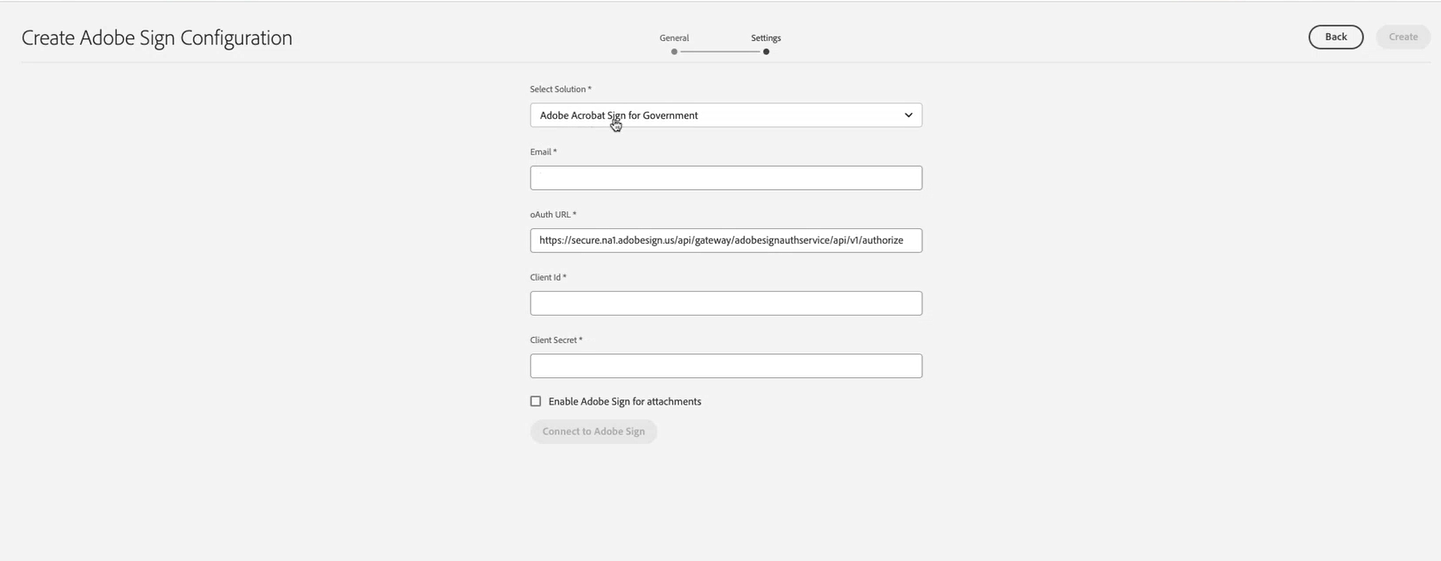
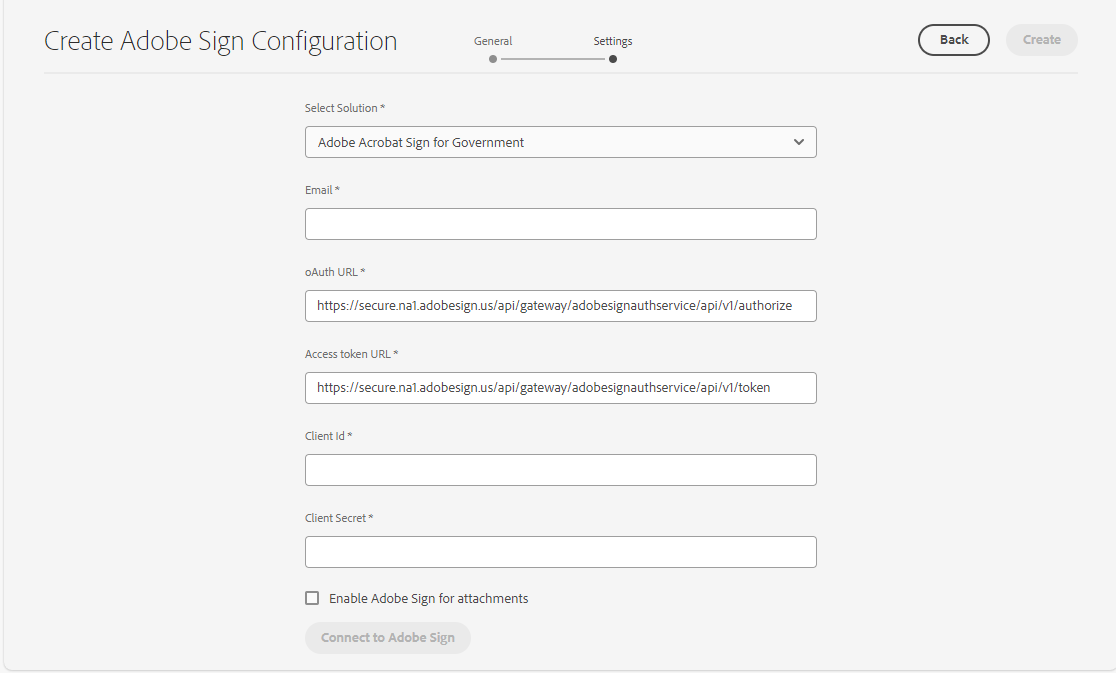
updated adobe-sign configuration

diff --git a/help/forms/using/adobe-sign-integration-adaptive-forms.md b/help/forms/using/adobe-sign-integration-adaptive-forms.md
@@ -55,7 +55,7 @@ After prerequisites are in place, perform the following steps to configure [!DNL
 
    >[!NOTE]
    >
-   >You can either execute steps 1-4 to create a configuration container and create an [!DNL Adobe Sign] configuration in the container or use the existing `global` folder in **Tools** ![hammer](assets/hammer.png) &gt; **[!UICONTROL Cloud Services]** &gt; **[!UICONTROL Adobe Sign]**. If you create the configuration in the new configuration container, ensure to specify the container name in the **[!UICONTROL Configuration Container]** field when you create an adaptive form.
+   >You can either execute steps 1-4 to create a configuration container and create an [!DNL Adobe Sign] configuration in the container or use the existing `global` folder in **Tools** ![hammer](assets/hammer.png) &gt; **[!UICONTROL Cloud Services]** &gt; **[!UICONTROL Adobe Sign]**. If you create the configuration in the new configuration container, ensure to specify the container name in the **[!UICONTROL Configuration Container]** field when you create an Adaptive Form.
    
    >[!NOTE]
    >
@@ -63,26 +63,35 @@ After prerequisites are in place, perform the following steps to configure [!DNL
 
 1. On the configuration page, tap **[!UICONTROL Create]** to create [!DNL Adobe Sign] configuration in AEM [!DNL Forms].
 1. In the **[!UICONTROL General]** tab of the **[!UICONTROL Create Adobe Sign Configuration]** page, specify a **[!UICONTROL Name]** for the configuration and tap **[!UICONTROL Next]**. You can optionally specify a title and browse to select a thumbnail for the configuration.
+1. Now you can **[!UICONTROL Select solution]** to select [!DNL Adobe Acrobat Sign].
+
+   ![Adobe Acrobat Sign Solutions](/help/forms/using/assets/adobe-sign-solution.png)
 
 1. Copy the URL in your current browser window to a notepad. It is required to configure [!DNL Adobe Sign] application with AEM[!DNL Forms].
 
-1. In the **[!UICONTROL Settings]** tab, the **[!UICONTROL OAuth URL]** field contains the default URL. The format of the URL is:
+1.  In the **[!UICONTROL Settings]** tab,
+      * the **[!UICONTROL OAuth URL]** field contains the default URL which includes the Adobe Sign database shard. The format of the URL is:
 
-      `https://<shard>/public/oAuth/v2`
+         `https://<shard>/public/oauth/v2`
    
-      For example: 
-      `https://secure.na1.echosign.com/public/oauth/v2`
+         For example: 
+         `https://secure.na1.echosign.com/public/oauth/v2`
+
+      * the **[!UICONTROL Access token URL]** field contains the default URL which includes the Adobe Sign database shard. The format of the URL is:
+
+         `https://<shard>/oauth/v2/token`
+   
+         For example: 
+         `https://api.na1.echosign.com/oauth/v2/token`
    
       where:
    
-      **na1** refers to the default database shard. You can modify the value for the database shard. Ensure that  the [!DNL  Adobe Sign] Cloud Configurations point to the [correct Shard](https://helpx.adobe.com/sign/using/identify-account-shard.html).
-   
-      If you create another [!DNL Adobe Sign] configuration for an Adobe Experience Manager feature or component, ensure that all the [!DNL Adobe Sign] Cloud Configurations point to the same shard.
+      **na1** refers to the default database shard. You can modify the value for the database shard. Ensure that  the [!DNL  Adobe Acrobat Sign] Cloud Configurations point to the [correct Shard](https://helpx.adobe.com/sign/using/identify-account-shard.html).
    
       >[!NOTE]
       >
-      >Keep the **Create Adobe Sign Configuration** page open. Do not close it. You can retrieve **Client Id** and **Client Secret** after configuring OAuth settings for the [!DNL Adobe Sign] application as described in upcoming steps.
-
+      >* Keep the **Create Adobe Acrobat Sign Configuration** page open. Do not close it. You can retrieve **Client Id** and **Client Secret** after configuring OAuth settings for the [!DNL Adobe Acrobat Sign] application as described in upcoming steps.
+      > * After logging in your Adobe Sign account,navigate to **[!UICONTROL Acrobat Sign API]** > **[!UICONTROL API Information]** > **[!UICONTROL REST API Methods Documentation]** > **[!UICONTROL OAuth Access Token]** to access information related to Adobe Sign OAuth URL and Access Token URL.
 
 1. Configure OAuth settings for the [!DNL Adobe Sign] application:
 
@@ -102,6 +111,7 @@ After prerequisites are in place, perform the following steps to configure [!DNL
 
    ![OAuth Config](assets/oauthconfig_new.png)
 
+<!--
 1. Go back to the **[!UICONTROL Create Adobe Sign Configuration]** page. In the **[!UICONTROL Settings]** tab, the **[!UICONTROL OAuth URL]** field mentions the  default URL. The format of the URL is:
 
    `https://<shard>/public/oAuth/v2`
@@ -117,13 +127,15 @@ After prerequisites are in place, perform the following steps to configure [!DNL
 
    >[!NOTE]
    >
-   >Ensure that your author and publish instance configurations point to the same shard. If you create multiple Adobe Sign configurations for an organization, ensure all the configurations utilize the same shard.
+   >Ensure that your author and publish instance configurations point to the same shard. If you create multiple Adobe Sign configurations for an organization, ensure all the configurations utilize the same shard. -->
 
 1. Go back to the **[!UICONTROL Create Adobe Sign Configuration]** page. In the **[!UICONTROL Settings]** tab, specify the **Client ID** (also referred to as Application ID) and **Client Secret**. Use the [Client ID and Client Secret of Adobe Sign application](https://opensource.adobe.com/acrobat-sign/developer_guide/helloworld.html#get-the-app-id-and-secret) created for AEM Forms.
 
 1. Select the **[!UICONTROL Enable Adobe Sign for attachments also]** option to append files attached to an adaptive form to the corresponding [!DNL Adobe Sign] document sent for signing.
 
 1. Tap **[!UICONTROL Connect to Adobe Sign]**. When prompted for credentials, provide username and password of the account used while creating [!DNL Adobe Sign] application.
+
+   ![Adobe Acrobat Sign Cloud Configuration Success](assets/adobe-sign-cloud-configuration-success.png)
 
 1. Tap **[!UICONTROL Create]** to create the [!DNL Adobe Sign] configuration.
 
@@ -134,6 +146,10 @@ After prerequisites are in place, perform the following steps to configure [!DNL
 1. Use [replication](https://experienceleague.adobe.com/docs/experience-manager-65/deploying/configuring/replication.html) to create identical configuration on corresponding publish instances. 
 
 Now, [!DNL Adobe Sign] is integrated with AEM [!DNL Forms] and ready for use in adaptive forms. To [use Adobe Sign service in an adaptive form](../../forms/using/working-with-adobe-sign.md#configure-adobe-sign-for-an-adaptive-form), specify the configuration container created above in adaptive form properties.
+
+>[!NOTE]
+>
+> To configure the Adobe Sign sandbox, you can follow the same configuration steps as explained in [Adobe Sign](#adobe-sign).
 
 ## Connect AEM Forms with Adobe Acrobat Sign Solutions for Government {#adobe-acrobat-sign-for-government}
 
@@ -201,9 +217,31 @@ The representative generates and shares credentials with you. In the next sectio
    
       ![Adobe Acrobat Sign Solutions for Government](/help/forms/using/assets/adobe-sign-for-govt.png)
 
-1. In the **[!UICONTROL Email]** filed, specify the email address associated with your Adobe Acrobat Sign Solutions for Government account.  
+1. In the **[!UICONTROL Email]** field, specify the email address associated with your Adobe Acrobat Sign Solutions for Government account.  
 
-1. The **[!UICONTROL OAuth URL]** field specifies the Adobe Sign database shard. The field contains the default URL. Do not change the URL. 
+1.  In the **[!UICONTROL Settings]** tab,
+      * the **[!UICONTROL OAuth URL]** field contains the default URL which includes the Adobe Sign database shard. The format of the URL is:
+
+         `https://<shard>/api/gateway/adobesignauthservice/api/v1/authorize`
+   
+         For example: 
+         `https://secure.na1.adobesign.us/api/gateway/adobesignauthservice/api/v1/authorize`
+
+      * the **[!UICONTROL Access token URL]** field contains the default URL which includes the Adobe Sign database shard. The format of the URL is:
+
+         `https://<shard>/api/gateway/adobesignauthservice/api/v1/token`
+   
+         For example: 
+         `https://secure.na1.adobesign.us/api/gateway/adobesignauthservice/api/v1/token`
+   
+      where:
+   
+      **na1** refers to the default database shard. You can modify the value for the database shard. Ensure that  the [!DNL  Adobe Acrobat Sign] Cloud Configurations point to the [correct Shard](https://helpx.adobe.com/sign/using/identify-account-shard.html).
+   
+      >[!NOTE]
+      >
+      > * Keep the **Create Adobe Acrobat Sign Configuration** page open. Do not close it. You can retrieve **Client Id** and **Client Secret** after configuring OAuth settings for the [!DNL Adobe Acrobat Sign] application as described in upcoming steps.
+      > * After logging in your Adobe Sign account,navigate to **[!UICONTROL Acrobat Sign API]** > **[!UICONTROL API Information]** > **[!UICONTROL REST API Methods Documentation]** > **[!UICONTROL OAuth Access Token]** to access information related to Adobe Sign oAuth URL and Access Token URL.
 
 1. Use the credentials shared by  Adobe Acrobat Sign for Government Solution representative ([Adobe Professional Services team member]) in the previous section as [**[!UICONTROL Client ID]** and **[!UICONTROL Client Secret]**].  
 
